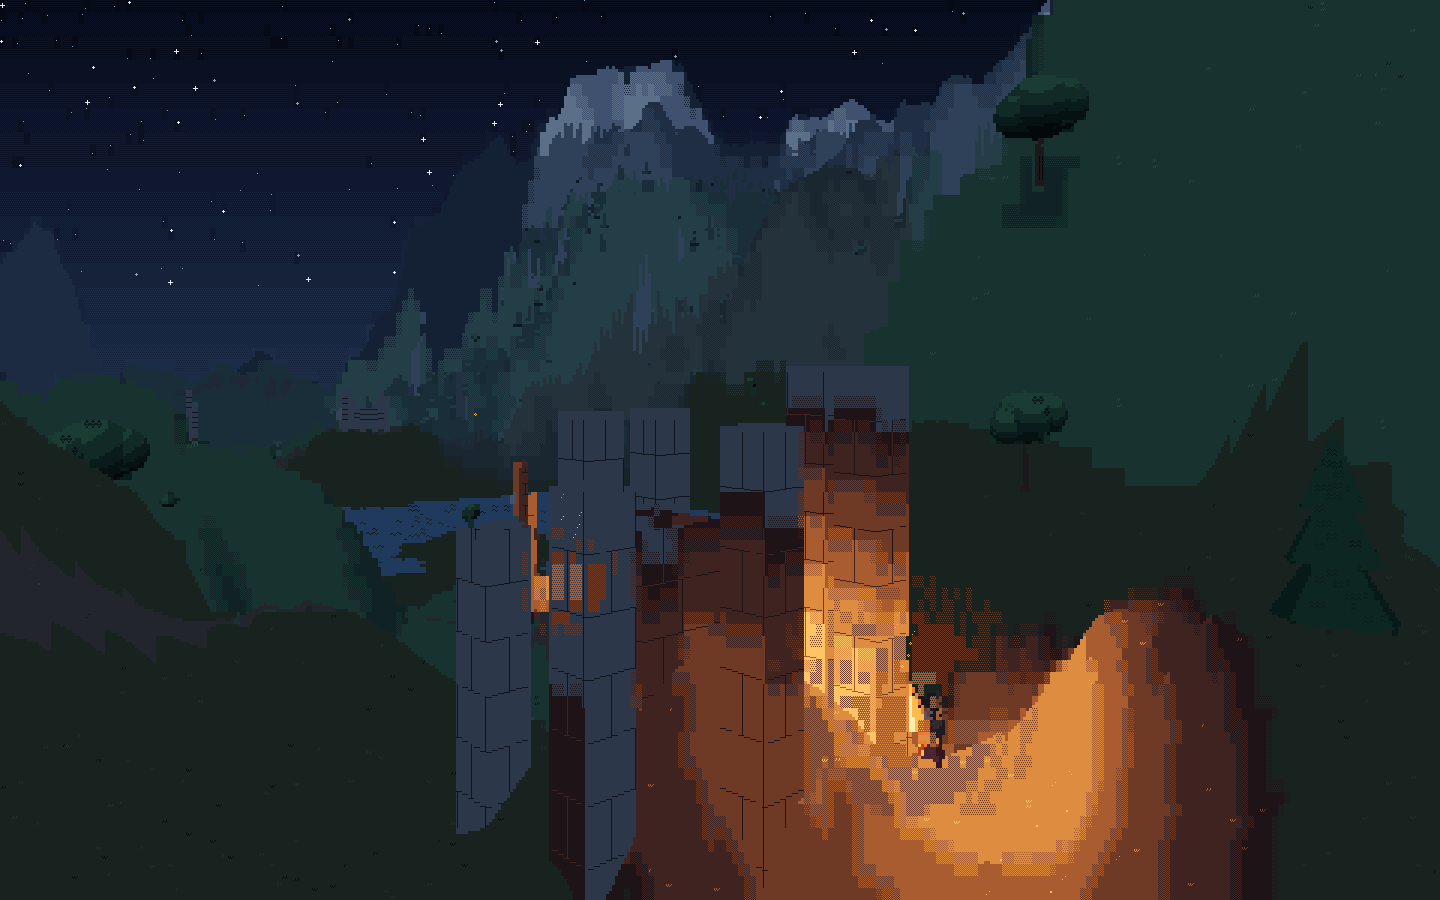
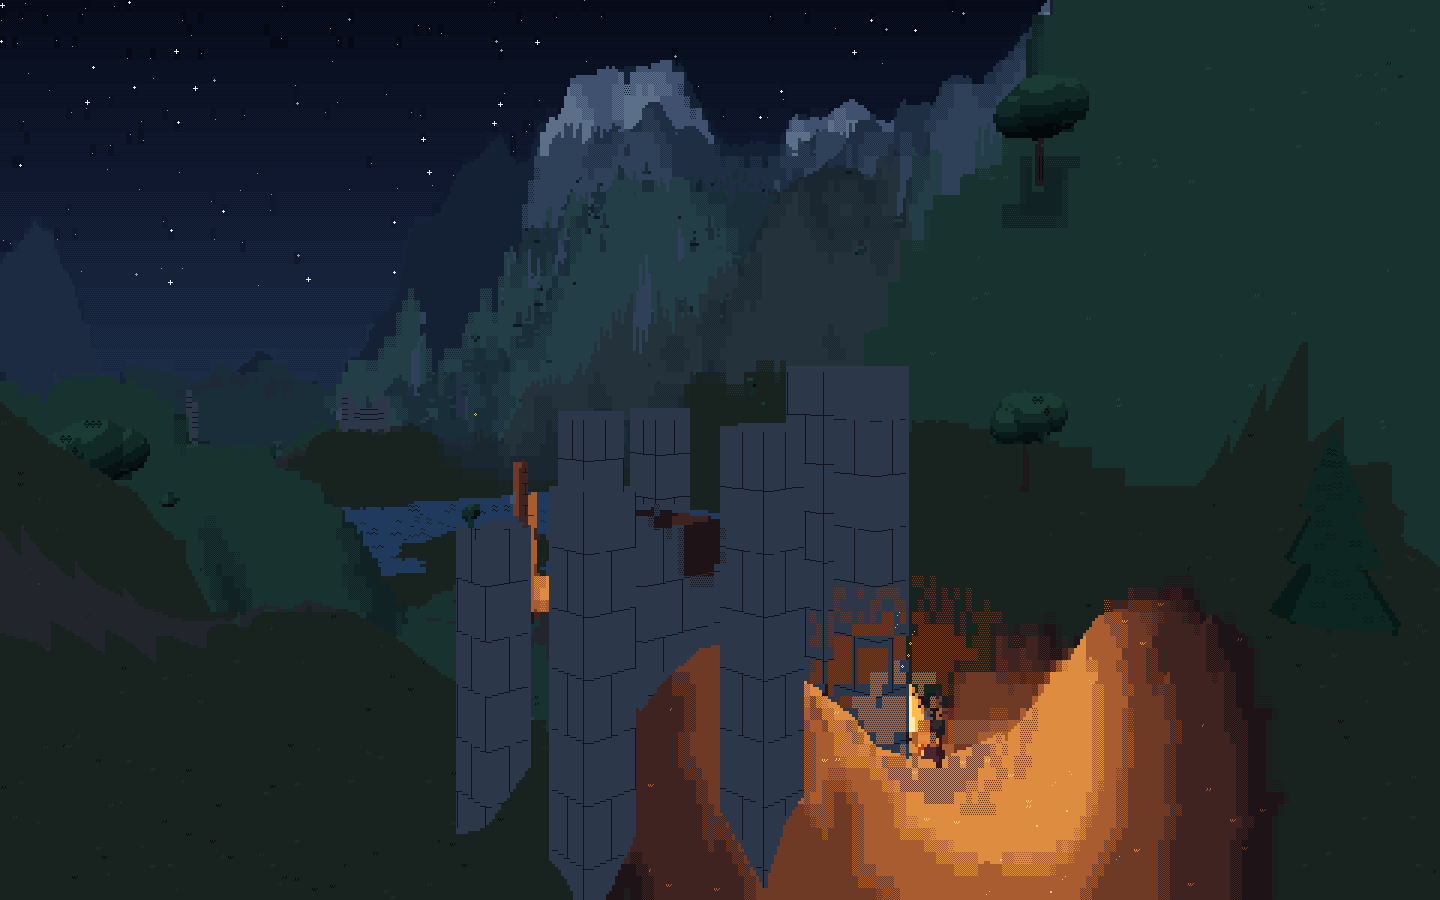
Faster cells and firelight; depth-tested glows; merchant and gate scenes
- cell stage: one pass over segments settles most cells
- walls: firelight read at both ends of a span and blended
- fire glow and sparks are depth-tested, so a hidden flame lights nothing
- scenes: a merchant walking toward you by day and by lantern light, and
  the spawn castle's gate at night
- shoot.mjs resolves output paths properly

Claude-Session: https://claude.ai/code/session_01VSDPicjmyUBxjAMJhTJr2G

Changed region(s): [[0.375, 0.4356, 0.6562, 0.9644], [0.375, 0.7467, 0.4062, 1.0]]

diff --git a/index.html b/index.html
@@ -2020,11 +2020,13 @@ function marchRays(t) {
             // Per row, the height up the wall (courses of stone are drawn from it) and, near a
             // light, the firelight at that height.
             const r0 = rT < 0 ? 0 : rT, r1 = rB > RH ? RH : rB;
+            // near a light, the firelight at the top and bottom of the span, blended down it
+            const lTop = perRow ? warmAt(ix + 0.5, wTop, iz + 0.5) : aLit, lBot = perRow ? warmAt(ix + 0.5, wBot, iz + 0.5) : aLit, kL = (lBot - lTop) / (wBot - wTop);
             for (let r = r0, i = col * RH + r0; r < r1; r++, i++) {
               if (kind[i] !== NONE) continue;
               const hy = camY + rayQ[r] * tt;
               kind[i] = K.WALL; seg[i] = aSeg; ramp[i] = aRamp; pos[i] = aPos; depth[i] = tt; flags[i] = aFlags; u[i] = wallU; v[i] = hy - baseY;
-              lit[i] = perRow ? warmAt(ix + 0.5, hy, iz + 0.5) : aLit; left--;
+              lit[i] = lTop + (hy - wTop) * kL; left--;
             }
             if (r1 >= ybuf) { if (r0 < ybuf) ybuf = r0; } else if (r0 < r1) gaps = true;
             if (camY > wTop) {           // top face, between this cell's far and near projection
@@ -2866,7 +2868,7 @@ SPRITE_MARKS[K.TREE] = [0.3, ['club', 'leafo', 'club', 'leafpct'].map(n => MK[n]
 SPRITE_MARKS[K.BUSH] = [0.3, ['club', 'leafo'].map(n => MK[n])];
 SPRITE_MARKS[K.CONIFER] = [0.35, [MK.needles]];
 SPRITE_MARKS[K.BOULDER] = [0.35, ['crag', 'pebbles'].map(n => MK[n])];
-const cIdx = new Int32Array(RAYS_X * RAYS_Y);
+const cIdx = new Int32Array(RAYS_X * RAYS_Y), cellOff = new Int32Array(RAYS_X * RAYS_Y);
 // Per cell, between the two passes: the list and position its colour comes from (−1 when the
 // cell is already drawn), and what it needs for marks.
 const plan = { list: new Int16Array(0), X: new Float32Array(0), kind: new Uint8Array(0), ramp: new Uint8Array(0), P: new Float32Array(0), mid: new Int32Array(0) };
@@ -2893,14 +2895,21 @@ function shadeCells(t) {
   let edges = 0;
 
   // ---- pass 1: edges are drawn now; every other cell is planned ----
+  const OFF = cellOff;   // ray k of a cell, relative to its first ray (column-major)
+  for (let k = 0; k < NS; k++) OFF[k] = (k % RAYS_X) * RH + ((k / RAYS_X) | 0);
   for (let r = 0; r < rows; r++) for (let c = 0; c < cols; c++) {
-    const ci = r * cols + c, base = c * RAYS_X * RH + r * RAYS_Y;
+    const ci = r * cols + c, base = c * RAYS_X * RH + r * RAYS_Y, i0 = base, s0 = seg[i0];
     pList[ci] = -1;
-    for (let k = 0; k < NS; k++) idx[k] = base + (k % RAYS_X) * RH + ((k / RAYS_X) | 0);
-    const i0 = idx[0];
+    for (let k = 0; k < NS; k++) idx[k] = base + OFF[k];
     // Seed the second group with the ray least like the first (another object, or a ridge).
-    let seedB = -1;
-    for (let k = 1; k < NS && seedB < 0; k++) if (!same(idx[k], i0)) seedB = idx[k];
+    // Most cells are one thing throughout, which one pass over the segments shows.
+    let seedB = -1, uniform = true;
+    for (let k = 1; k < NS; k++) if (seg[idx[k]] !== s0) { uniform = false; break; }
+    if (!uniform) { for (let k = 1; k < NS; k++) if (!same(idx[k], i0)) { seedB = idx[k]; break; } }
+    else if (kind[i0] === K.TERRAIN) {
+      const d0 = depth[i0];
+      for (let k = 1; k < NS; k++) { const d = depth[idx[k]]; if (d > d0 * 1.22 || d0 > d * 1.22) { seedB = idx[k]; break; } }
+    }
     if (seedB >= 0) {
       const f0 = fogOf(i0), fB = fogOf(seedB);
       let pat = 0, nB = 0, aP = 0, aF = 0, aL = 0, bP = 0, bF = 0, bL = 0;
